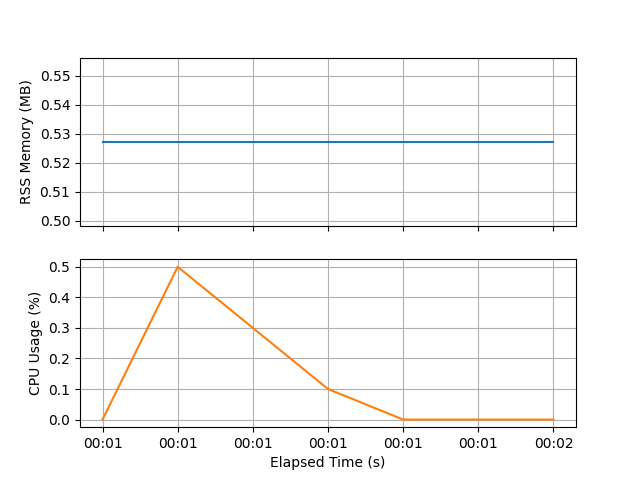
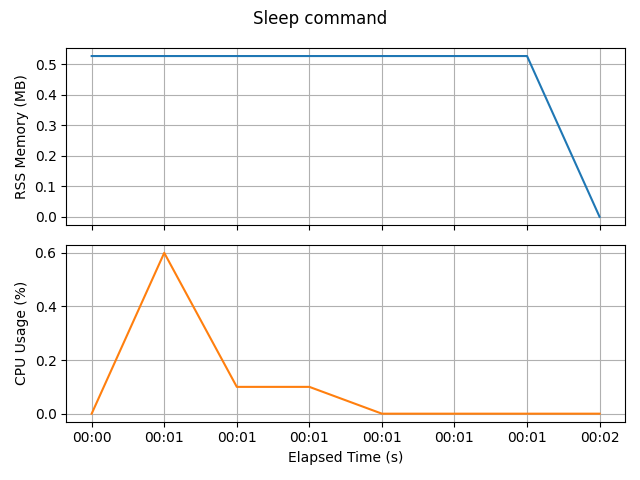
📚 DOCS: Update example

diff --git a/README.md b/README.md
@@ -20,7 +20,7 @@ $ pipx install process-plot
 then run:
 
 ```console
-$ pplot exec -i 0.1 "sleep 1"
+$ pplot exec -i 0.1 -t "Sleep command" "sleep 1"
 PPLOT INFO: Output files will be written to: /user/pplot_out, with basename: 20210921024614
 PPLOT INFO: Running process
 PPLOT INFO: Total run time: 0 hour(s), 00 minute(s), 01.175246 second(s)
@@ -48,6 +48,7 @@ Options:
   -p, --basepath TEXT             Basepath for output files
   -n, --basename TEXT             Basename for output files (defaults to
                                   datetime)
+  -t, --title TEXT                Plot title
   -v, --verbose                   Increase verbosity  [x>=0]
   -q, --quiet                     Quiet mode
   --help                          Show this message and exit.
